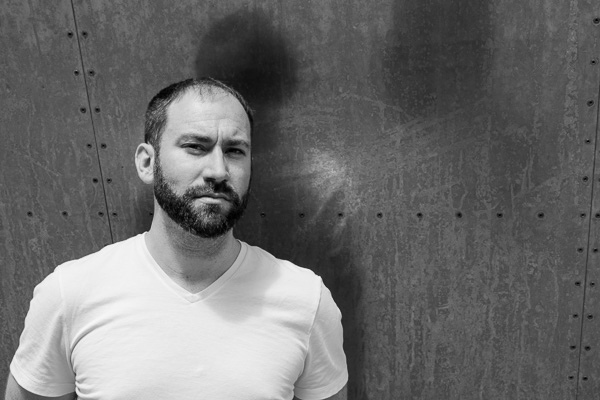
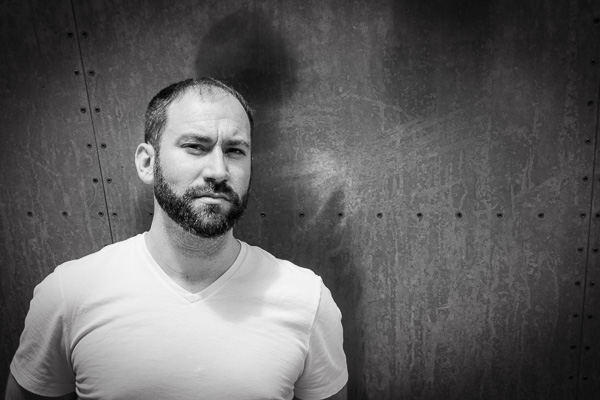
Styling changes to the image on the site page and for the header.

diff --git a/index.html b/index.html
@@ -1,5 +1,6 @@
 <!DOCTYPE html>
   <html lang="en">
+
     <head>
       <meta charset="utf-8">
       <meta name="viewport" content="width=device-width", initial-scale=1.0>
@@ -10,10 +11,12 @@
 
     </head>
 
-    <body ng-app="portfolio">
+    <body class="body" ng-app="portfolio">
       <div>
         <ng-view></ng-view>
       </div>
+
+
       <script src="https://cdnjs.cloudflare.com/ajax/libs/jquery/2.1.3/jquery.min.js"></script>
 
       <script src="https://cdnjs.cloudflare.com/ajax/libs/twitter-bootstrap/4.0.0-alpha/js/bootstrap.min.js"></script>
@@ -33,7 +36,5 @@
 
 
     </body>
-
-
 
   </html>

diff --git a/css/styles.css b/css/styles.css
@@ -1,13 +1,23 @@
-body {
-  padding-left:10%;
-  padding-right:10%;
-  background: #FFF;
+.body {
+  padding-left: 10%;
+  padding-right: 10%;
+  background: #000000;
 }
 
 #site-header {
-  background: #FFF;
-}
+  background: #000000;
+  color: white;
+  font-size: 2em;
+  height: 50px;
+  }
 
 #site-content {
-  background: #CCC;
+  background: #000000;
+}
+
+.hero-image {
+width:800px;
+position:absolute;
+background-color:#000000;
+border-radius: 20px;
 }

diff --git a/js/contactctrl.js b/js/contactctrl.js
@@ -1,12 +1,12 @@
 portfolio.controller('ContactController', [ '$location', '$scope', function($location, $scope){
 
 
-    $scope.goHome = function() {
-      $location.path('/site');
-    };
+  $scope.goHome = function() {
+    $location.path('/site');
+  };
 
-    $scope.goContact = function() {
-      $location.path('/contact');
-    };
+  $scope.goContact = function() {
+    $location.path('/contact');
+  };
 
 }]);

diff --git a/js/app.js b/js/app.js
@@ -12,11 +12,11 @@ portfolio.config(function($routeProvider) {
         templateUrl: 'partials/contact.html',
         controller: 'ContactController'
       })
-      .when('/site', {
+      .when('/', {
         templateUrl: 'partials/site.html',
         controller: 'SiteController'
       })
       .otherwise({
-        redirectTo: '/site'
+        redirectTo: '/'
       });
   });

diff --git a/partials/site.html b/partials/site.html
@@ -1,7 +1,13 @@
 <div id="site-header">
   <div class="site-menu">
-    <button ng-click="goHome()">home</button>
-    <button ng-click="goContact()">contact</button>
+    <div ng-click="goHome()">home</div>
+    <div ng-click="goContact()">contact</div>
+  </div>
+</div>
+
+<div>
+  <div>
+    <img src="img/portfolioimage.jpg" class="hero-image">
   </div>
 </div>
 

diff --git a/partials/contact.html b/partials/contact.html
@@ -1,7 +1,7 @@
 <div id="site-header">
   <div class="site-menu">
-    <button ng-click="goHome()">home</button>
-    <button ng-click="goContact()">contact</button>
+    <div ng-click="goHome()">home</div>
+    <div ng-click="goContact()">contact</div>
   </div>
 </div>
 
